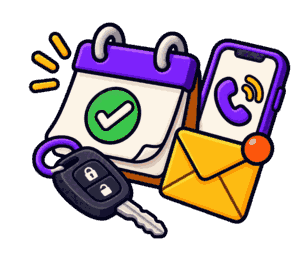
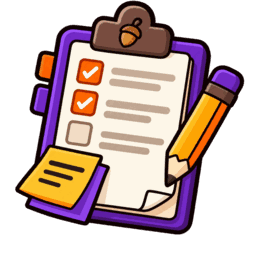
feat: the tasks door goes back to the clipboard
An exception, recorded as one rather than slipped in.

Two ticked boxes beside one empty is a progress reading drawn as a picture, and
the Don't list names checklists by name: the rule does not care whether the
total is a numeral. This is the same composition the owner removed from this
door — and from the chores door — on 20 August, for exactly that reason. He was
shown that record and chose it anyway.

What it buys is legibility. The errands drawing shared a calendar, a set of keys
and an envelope with the agenda door, and in a two-by-two grid those two sit one
above the other in the same column. Two doors that read alike is a cost paid
every time the screen is opened; a checklist is a rule broken in a picture
nobody counts.

Three things make it narrower than the drawing it replaces: the ticks are Acorn
Orange rather than done green, so no state colour is used as a claim; there is
no grey; and the acorn on the clip is the product's second mark used exactly as
DESIGN.md says it is available to be used.

An exception, not a precedent. The next drawing that depicts a count gets
refused on the same grounds this one was.

diff --git a/internal/web/templates/home.html b/internal/web/templates/home.html
@@ -242,7 +242,7 @@
       </span>
     </a>
     <a class="door" href="/tasks">
-      <span class="art"><img alt="" src="/static/door-tasks.png?v={{.V}}" width="302" height="256"></span>
+      <span class="art"><img alt="" src="/static/door-tasks.png?v={{.V}}" width="254" height="256"></span>
       <span class="label">
         <span class="name">the tasks</span>
         <span class="what">what you decided</span>

diff --git a/DESIGN.md b/DESIGN.md
@@ -1225,7 +1225,31 @@ drawing that reads instantly as chores did not need a checklist to do it, and
 the version that avoided one is also the version that stopped colliding with
 the tasks door.
 
-**The tasks door carries what is left of one.** It was a clipboard with two
+**The tasks door went back to the clipboard on 24 August 2026, and it is an
+exception rather than a reversal of the reasoning.**
+
+It is a clipboard with two ticked boxes beside one empty, a pencil, a sticky
+note, and the acorn on the clip. Two of three is a progress reading drawn as a
+picture, and the Don't list names checklists by name: the rule does not care
+whether the total is a numeral. This is the same composition the owner removed
+from this door — and from the chores door — on 20 August, for that reason.
+
+Chosen anyway, knowingly, with the record put in front of him first. What it
+buys: the errands drawing shared a calendar, a set of keys and an envelope with
+the agenda door, and in a two-by-two grid those two sit one above the other in
+the same column. Two doors that read alike is a legibility cost paid every time
+the screen is opened; a checklist is a rule broken in a picture nobody counts.
+
+Three things make it narrower than the drawing it replaces. The ticks are Acorn
+Orange rather than `done` green, so no state colour is being used as a claim.
+There is no grey. And the acorn on the clip is the product's second mark used
+exactly as this document says it is available to be used — on a badge where the
+full mascot would be too much.
+
+**An exception, not a precedent.** The next drawing that depicts a count gets
+refused on the same grounds this one was.
+
+**What the tasks door carried before.** It was a clipboard with two
 ticked rows and one empty — a progress reading drawn as a picture. The owner
 replaced it the same day with errands: a calendar, a phone, an envelope, a set
 of keys. **The count is gone**, which was the larger of the two faults and the
